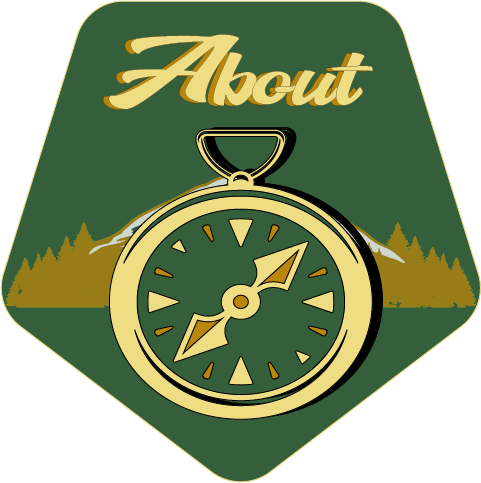
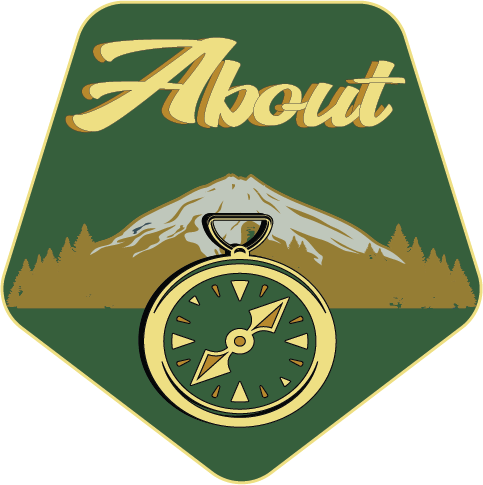
feat: update about & program page 🦄

diff --git a/src/pages/programs.js b/src/pages/programs.js
@@ -36,8 +36,8 @@ const ProgramsPage = () => {
                       alt="Giddy Up"
                       src={GiddyUp}
                     />
-                    <div className="text-center absolute inset-0 opacity-0 hover:opacity-100 duration-300 flex justify-center items-center text-md text-gray-800 bg-yellow-200 rounded-full">
-                      <p>Placeholder text for icon descriptions</p>
+                    <div className="text-center absolute inset-0 opacity-0 hover:opacity-100 duration-300 flex justify-center items-center text-md text-gray-800 bg-yellow-400 rounded-full">
+                      <p className='text-white px-1'>During the non-summer seasons come on up for a day of horseback riding and fellowship every week</p>
                     </div>
                   </Link>
                 </div>
@@ -51,7 +51,7 @@ const ProgramsPage = () => {
                       src={RidingLesson}
                     />
                     <div className="text-center absolute inset-0 opacity-0 hover:opacity-100 duration-300 flex justify-center items-center text-md text-gray-800 bg-yellow-200 rounded-full">
-                      <p>Placeholder text for icon descriptions</p>
+                      <p className='px-1'>This series offers more than just learning how to ride a horse - you learn to care for them too.</p>
                     </div>
                   </Link>
                 </div>
@@ -64,8 +64,8 @@ const ProgramsPage = () => {
                     alt="adventures galore"
                     src={AdventureClass}
                   />
-                  <div className="text-center absolute inset-0 opacity-0 hover:opacity-100 duration-300 flex justify-center items-center text-md text-gray-800 bg-yellow-200 rounded-full">
-                      <p>Placeholder text for icon descriptions</p>
+                  <div className="text-center absolute inset-0 opacity-0 hover:opacity-100 duration-300 flex justify-center items-center text-md text-gray-800 bg-green-200 rounded-full">
+                      <p className='text-white px-1'>If you are into learning survival and self-sufficiency then this is the place to be.</p>
                     </div>
                   </Link>
                 </div>
@@ -78,8 +78,8 @@ const ProgramsPage = () => {
                     alt="Bears"
                     src={ParentChild}
                   />
-                  <div className="text-center absolute inset-0 opacity-0 hover:opacity-100 duration-300 flex justify-center items-center text-md text-gray-800 bg-yellow-200 rounded-full">
-                      <p>Placeholder text for icon descriptions</p>
+                  <div className="text-center absolute inset-0 opacity-0 hover:opacity-100 duration-300 flex justify-center items-center text-md text-gray-800 bg-yellow-400 rounded-full">
+                      <p className='text-white px-1'>A day of fun, adventures, and memories that will last a life time.</p>
                     </div>
                   </Link>
                 </div>
@@ -94,7 +94,7 @@ const ProgramsPage = () => {
                     src={SatCamp}
                   />
                   <div className="text-center absolute inset-0 opacity-0 hover:opacity-100 duration-300 flex justify-center items-center text-md text-gray-800 bg-yellow-200 rounded-full">
-                      <p>Placeholder text for icon descriptions</p>
+                      <p className='px-1'>Are you looking for something for your kids to do over the weekend? Look no further than this popular camp series.</p>
                     </div>
                   </Link>
                 </div>
@@ -107,8 +107,8 @@ const ProgramsPage = () => {
                     alt="Girl Scouts"
                     src={GirlScouts}
                   />
-                  <div className="text-center absolute inset-0 opacity-0 hover:opacity-100 duration-300 flex justify-center items-center text-md text-gray-800 bg-yellow-200 rounded-full">
-                      <p>Placeholder text for icon descriptions</p>
+                  <div className="text-center absolute inset-0 opacity-0 hover:opacity-100 duration-300 flex justify-center items-center text-md text-gray-800 bg-green-200 rounded-full">
+                      <p className='px-1 text-white'>We have helped hundreds of Girl Scouts get their horsemanship badges. Let us help your troop succeed too!</p>
                     </div>
                   </Link>
                 </div>              
@@ -121,8 +121,8 @@ const ProgramsPage = () => {
                     alt="Book a Ride"
                     src={BookRide}
                   />
-                  <div className="text-center absolute inset-0 opacity-0 hover:opacity-100 duration-300 flex justify-center items-center text-md text-gray-800 bg-yellow-200 rounded-full">
-                      <p>Placeholder text for icon descriptions</p>
+                  <div className="text-center absolute inset-0 opacity-0 hover:opacity-100 duration-300 flex justify-center items-center text-md text-gray-800 bg-yellow-400 rounded-full">
+                      <p className='text-white px-1'>A perfect gift for that special someone - great for birthdays, graduation gifts, or just because...</p>
                     </div>
                   </Link>
                 </div>
@@ -136,7 +136,7 @@ const ProgramsPage = () => {
                     src={PaintBall}
                   />
                   <div className="text-center absolute inset-0 opacity-0 hover:opacity-100 duration-300 flex justify-center items-center text-md text-gray-800 bg-yellow-200 rounded-full">
-                      <p>Placeholder text for icon descriptions</p>
+                      <p className='px-1'>We have the best paintball course in southern Washington. Come and experience it for yourself.</p>
                     </div>
                   </Link>
                 </div>
@@ -150,8 +150,8 @@ const ProgramsPage = () => {
                     alt="Guest Groups Camp"
                     src={GuestGroup}
                   />
-                  <div className="text-center absolute inset-0 opacity-0 hover:opacity-100 duration-300 flex justify-center items-center text-md text-gray-800 bg-yellow-200 rounded-full">
-                      <p>Placeholder text for icon descriptions</p>
+                  <div className="text-center absolute inset-0 opacity-0 hover:opacity-100 duration-300 flex justify-center items-center text-md text-gray-800 bg-green-200 rounded-full">
+                      <p className='px-1 text-white'>Looking for a retreat location? Let Royal Ridges Retreat meet and exceed your needs.</p>
                     </div>
                   </Link>
                 </div>
@@ -164,8 +164,8 @@ const ProgramsPage = () => {
                     alt="Vault"
                     src={Vault}
                   />
-                  <div className="text-center absolute inset-0 opacity-0 hover:opacity-100 duration-300 flex justify-center items-center text-md text-gray-800 bg-yellow-200 rounded-full">
-                      <p>Placeholder text for icon descriptions</p>
+                  <div className="text-center absolute inset-0 opacity-0 hover:opacity-100 duration-300 flex justify-center items-center text-md text-gray-800 bg-yellow-400 rounded-full">
+                      <p className='px-1 text-white'>Vaulting does not have to be scary. Let our fully certified instructors show you the ropes in a fun and safe environment.</p>
                     </div>
                   </Link>
                 </div>
@@ -179,7 +179,7 @@ const ProgramsPage = () => {
                     src={Women}
                   />
                   <div className="text-center absolute inset-0 opacity-0 hover:opacity-100 duration-300 flex justify-center items-center text-md text-gray-800 bg-yellow-200 rounded-full">
-                      <p>Placeholder text for icon descriptions</p>
+                      <p className='px-1'>A day for the ladies to relax in Creation with good friends, great food, and amazing views.</p>
                     </div>
                   </Link>
                 </div>
@@ -192,8 +192,8 @@ const ProgramsPage = () => {
                     alt="School Break"
                     src={School}
                   />
-                  <div className="text-center absolute inset-0 opacity-0 hover:opacity-100 duration-300 flex justify-center items-center text-md text-gray-800 bg-yellow-200 rounded-full">
-                      <p>Placeholder text for icon descriptions</p>
+                  <div className="text-center absolute inset-0 opacity-0 hover:opacity-100 duration-300 flex justify-center items-center text-md text-gray-800 bg-green-200 rounded-full">
+                      <p className='px-2 text-white'>Need something for junior to do during school break? Send them to Royal Ridges Retreat. We promise to send them back tired and happy.</p>
                     </div>
                   </Link>
                 </div>

diff --git a/src/pages/about.js b/src/pages/about.js
@@ -1,6 +1,11 @@
 import React from 'react';
 import {Link} from 'gatsby';
 
+import Mission from '../images/MissionIcon.png'
+import Faith from '../images/FaithIcon.png'
+import Staff from '../images/StaffIcon.png'
+import Newsletter from '../images/NewsletterIcon.png';
+
 import Header from "../components/header";
 import Footer from "../components/footer";
 
@@ -13,17 +18,16 @@ const About = () => {
             About Royal Ridges
           </div>
           <div className="grid grid-cols-2 gap-2 mx-2 h-screen overflow-y-scroll">
-              <div className="flex flex-col items-center justify-center">
+              <div className="flex items-center justify-center">
                   <Link 
                     to={'/mission'}
                     className='text-green-200 hover:text-indigo-400'
                   >
                   <img
-                    alt="Clouds"
-                    src="https://royal-ridges-retreat.s3.us-west-1.amazonaws.com/programs-page/Royal+Ridges-Horse+Camp-Yacolt-Washington-Summer+Camp-Kids+Camp-Christian+Camp-clouds.JPG"
-                    className="h-20 md:h-40 mx-auto rounded-3xl"
+                    alt="mission"
+                    src={Mission}
+                    className="w-28 md:w-64 mt-8 mx-auto"
                   />
-                  <p className='flex justify-center'>Missions</p>
                   </Link>
               </div>
               <div className="flex flex-col items-center justify-center">
@@ -34,11 +38,10 @@ const About = () => {
                     className='text-green-200 hover:text-indigo-400'
                   >
                   <img
-                    alt="couple at picnic table"
-                    src="https://royal-ridges-retreat.s3.us-west-1.amazonaws.com/programs-page/Royal+Ridges-Horse+Camp-Yacolt-Washington-Summer+Camp-Kids+Camp-Christian+Camp-founders.JPG"
-                    className="h-20 md:h-40 mx-auto rounded-3xl"
+                    alt="newsletter"
+                    src={Newsletter}
+                    className="w-28 md:w-64 mt-8 mx-auto"
                   />
-                  <p className='flex justify-center'>Newsletter</p>
                   </a>
               </div>
               <div className="flex flex-col items-center justify-center">
@@ -47,11 +50,10 @@ const About = () => {
                     className='text-green-200 hover:text-indigo-400'
                   >
                   <img
-                    alt="pool"
-                    src="https://royal-ridges-retreat.s3.us-west-1.amazonaws.com/programs-page/Royal+Ridges-Horse+Camp-Yacolt-Washington-Summer+Camp-Kids+Camp-Christian+Camp-pool.JPG"
-                    className="h-20 md:h-40 mx-auto rounded-3xl"
+                    alt="staff"
+                    src={Staff}
+                    className="w-28 md:w-64 mt-8 mx-auto"
                   />
-                  <p className='flex justify-center'>Staff Page</p>
                   </Link>
               </div>
               <div className="flex flex-col items-center justify-center">
@@ -60,11 +62,10 @@ const About = () => {
                     className='text-green-200 hover:text-indigo-400'
                   >
                   <img
-                    alt="stables"
-                    src="https://royal-ridges-retreat.s3.us-west-1.amazonaws.com/programs-page/Royal+Ridges-Horse+Camp-Yacolt-Washington-Summer+Camp-Kids+Camp-Christian+Camp-stables.JPG"
-                    className="h-20 md:h-40 mx-auto rounded-3xl"
+                    alt="faith"
+                    src={Faith}
+                    className="w-28 md:w-64 mt-8 mx-auto"
                   />
-                  <p className='flex justify-center'>Statement of Faith</p>
                   </Link>
               </div>
           </div>

diff --git a/src/pages/support.js b/src/pages/support.js
@@ -14,50 +14,43 @@ const Support = () => {
     <div className="bg-gradient-to-b from-yellow-200 to-indigo-200">
       <Header />
         <div className="max-w-6xl mx-auto h-screen">
-          <h1 className="text-green-200 font-bold font-cursive text-base md:text-4xl flex flex-wrap justify-center pb-8">
+          <h1 className="text-green-200 font-bold font-cursive text-base md:text-4xl flex flex-wrap justify-center">
             Support Royal Ridges
           </h1>
-          <div className="grid grid-cols-3 gap-2 mx-2 h-screen overflow-y-scroll m-auto">
-            <div className=''>
+          <div className="grid grid-cols-2 gap-2 mx-2 h-screen overflow-y-scroll">
+            <div className='flex items-center justify-center'>
               <Link to={'/volunteers'}>
                   <img
-                    alt="group huddle"
+                    alt="volunteers"
                     src={Volunteers}
-                    className="w-28 md:w-64 mt-8 mx-auto "
+                    className="w-28 md:w-64 mt-8 mx-auto"
                   />
                 </Link>
             </div>
-
-            <div></div>
-
-            <div className=''>
+            <div className='flex items-center justify-center'>
                 <Link to={'/donations'}>
                   <img
-                    alt="low ropes course"
+                    alt="donations"
                     src={Donations}
-                    className="w-28 md:w-64 mt-8 mx-auto "
+                    className="w-28 md:w-64 mt-8 mx-auto"
                   />
                 </Link>
             </div>
-
-            <div className=''>
+            <div className='flex items-center justify-center'>
               <Link to={'/church-sponsors'}>
                   <img
-                    alt="kids in a meadow"
+                    alt="church"
                     src={Church}
-                    className="w-28 md:w-64 mt-8 mx-auto "
+                    className="w-28 md:w-64 mt-8 mx-auto"
                   />
               </Link>
-            </div>    
-
-            <div></div>          
-
-            <div className=''>
+            </div>  
+            <div className='flex items-center justify-center'>
                 <Link to={'/business'}>
                   <img
-                    alt="vintage_photo"
+                    alt="business"
                     src={Business}
-                    className="w-28 md:w-64 mt-8 mx-auto "
+                    className="w-28 md:w-64 mt-8 mx-auto"
                   />
                 </Link>
             </div>

diff --git a/src/pages/summer-camp.js b/src/pages/summer-camp.js
@@ -24,9 +24,9 @@ const SummerCampPage = () => {
                 <div className="mx-4">
                   <Link to={'/registration'}>
                     <img
-                      alt="staff_application"
+                      alt="registration"
                       src={Reg}
-                      className="w-28 md:w-44"
+                      className="w-28 md:w-64 mt-8 mx-auto"
                     />
                   </Link>
                 </div>
@@ -35,7 +35,7 @@ const SummerCampPage = () => {
                     <img
                       alt="parents_manual"
                       src={ParentManual}
-                      className="w-28 md:w-44"
+                      className="w-28 md:w-64 mt-8 mx-auto"
                     />
                   </Link>
                 </div> 
@@ -46,9 +46,9 @@ const SummerCampPage = () => {
                   <div className="">
                     <Link to={'/faq'}>
                       <img
-                        alt="Facts"
+                        alt="facts"
                         src={Faq}
-                        className="w-28 md:w-44"
+                        className="w-28 md:w-64 mt-8 mx-auto"
                       />
                     </Link>
                   </div>
@@ -61,16 +61,16 @@ const SummerCampPage = () => {
                     <img
                       alt="staff_application"
                       src={SummerStaffApp}
-                      className="w-28 md:w-44"
+                      className="w-28 md:w-64 mt-8 mx-auto"
                     />
                   </Link>
                 </div>
                 <div className="mx-4">
                   <Link to={'/scholarships'}>
                     <img
-                      alt="medical_image"
+                      alt="scholarships"
                       src={Scholarship}
-                      className="w-28 md:w-44"
+                      className="w-28 md:w-64 mt-8 mx-auto"
                     />
                   </Link>
                 </div>

diff --git a/src/pages/statement-of-faith.js b/src/pages/statement-of-faith.js
@@ -9,12 +9,7 @@ const StatementOfFaith = () => {
           <Header />  
             <div>
               <div className="max-w-6xl mx-2 md:mx-auto text-lg h-screen overflow-y-scroll">
-                <p className="flex flex-wrap text-green-200 font-cursive text-xl justify-center md:text-4xl">
-                  Statement Of Faith
-                </p>
-                <p className="flex flex-wrap text-yellow-400 font-cursive text-xl justify-center">
-                  What we believe
-                </p>
+              <img src='https://royal-ridges-retreat.s3.us-west-1.amazonaws.com/about_page/Our+Faith.png' alt='statement_of_faith' className='rounded-2xl shadow-xl mt-2 w-full'/>
                 <div>
                   <p className="text-green-200 font-cursive text-lg">God</p>
                   <p>

diff --git a/src/pages/staff.js b/src/pages/staff.js
@@ -8,9 +8,7 @@ const Staff = () => {
         <div className="bg-gradient-to-t from-yellow-200 to-indigo-200">
           <Header />
             <div className="max-w-6xl mx-2 md:mx-auto text-xs md:text-base h-screen">
-              <p className="flex flex-wrap text-green-200 font-cursive text-xl justify-center md:text-4xl">
-                Meet our full time staff
-              </p>
+            <img src='https://royal-ridges-retreat.s3.us-west-1.amazonaws.com/about_page/Our+Staff.png' alt='staff' className='rounded-2xl shadow-xl mt-2 w-full'/>
               <a
                 href="email:joshua@royalridges.org"
                 className="hover:underline text-green-200 hover:text-indigo-400"

diff --git a/src/pages/mission.js b/src/pages/mission.js
@@ -9,9 +9,7 @@ const Mission = () => {
           <Header />
             <div>
             <div className="max-w-6xl mx-2 md:mx-auto text-xs md:text-base h-screen">
-              <p className="flex flex-wrap text-green-200 font-cursive text-xl justify-center md:text-4xl">
-                Mission
-              </p>
+            <img src='https://royal-ridges-retreat.s3.us-west-1.amazonaws.com/about_page/Mission.png' alt='mission' className='rounded-2xl shadow-xl mt-2 w-full'/>
               <p className="flex flex-wrap text-yellow-400 font-bold text-xl justify-center md:text-2xl mt-2">
                 The Beauty of God&#39;s Creation
               </p>
